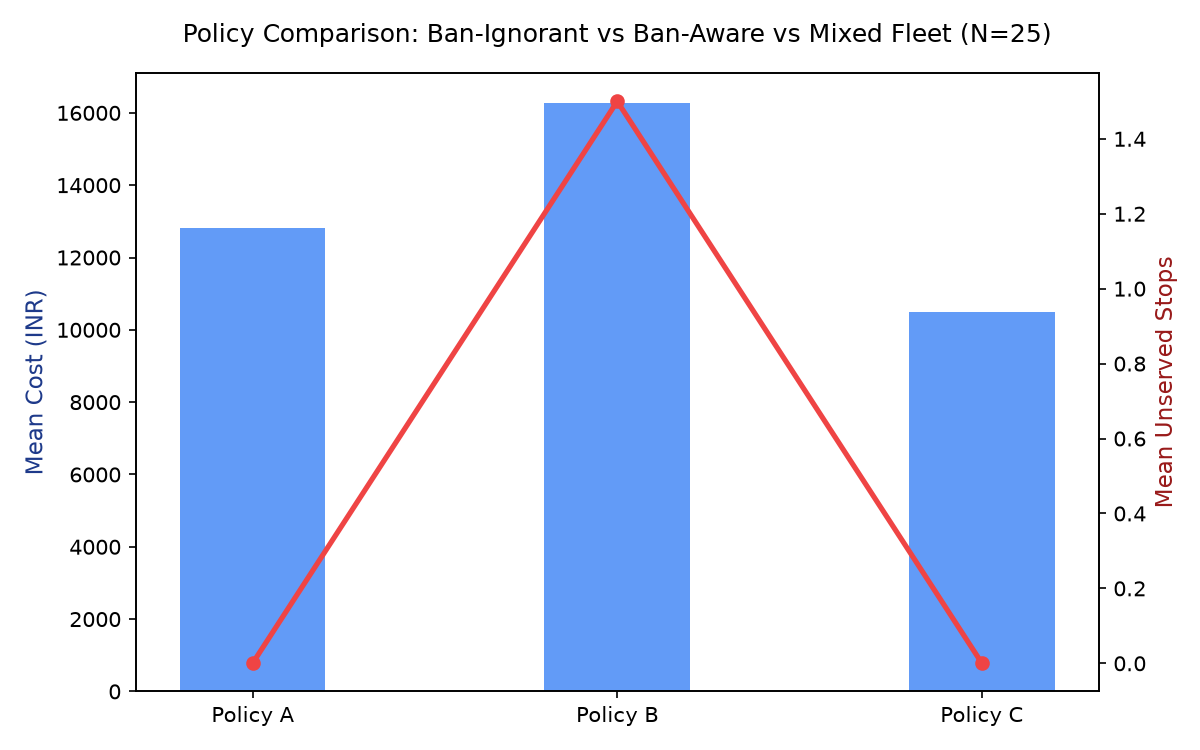
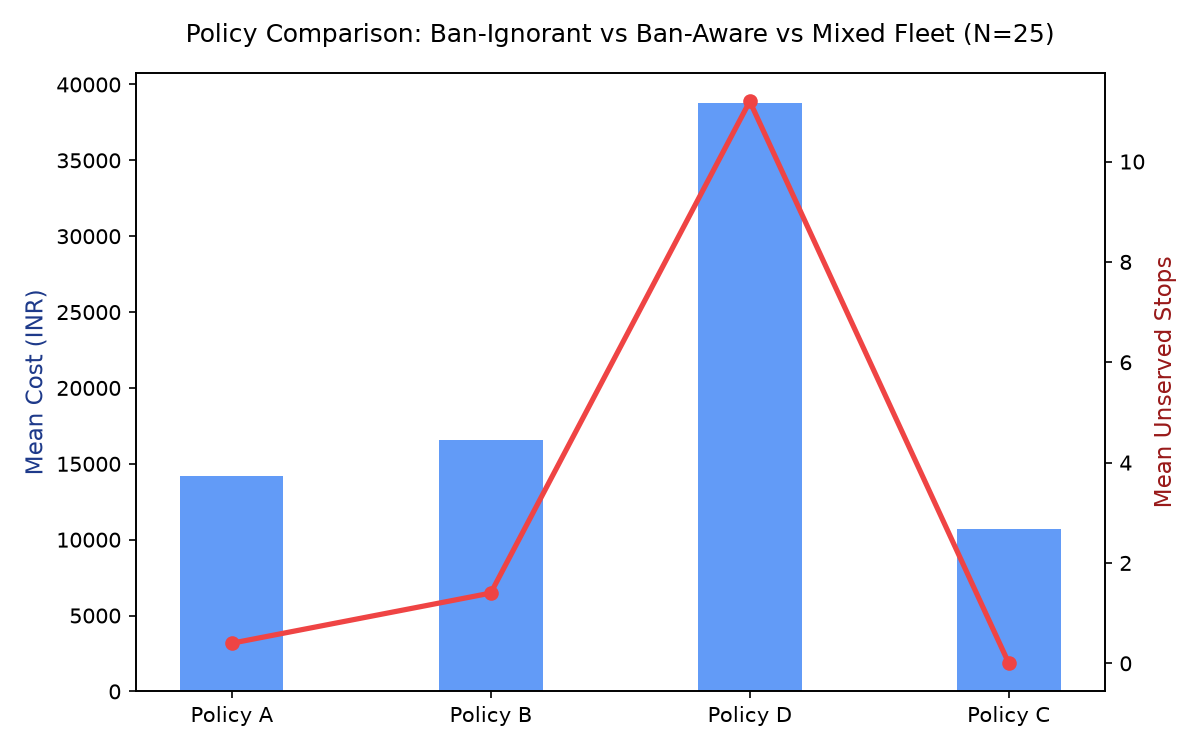
Fix #20: add off-peak truck departure policy to benchmarks and recompute README claims

diff --git a/benchmarks/run.py b/benchmarks/run.py
@@ -2,8 +2,9 @@
 Unified CLI Benchmark Harness for RouteOpt
 
 Compares dispatch policies and solver architectures across synthetic and real benchmark instances:
-  - Policy A: Ban-ignorant trucks (incurs fines & delays)
-  - Policy B: Ban-aware trucks only (drops peak urban stops)
+  - Policy A: Ban-ignorant trucks (incurs violations & delays)
+  - Policy B: Ban-aware trucks only (departs 08:30, drops peak urban stops)
+  - Policy D: Off-peak trucks only (departs 11:30, avoids morning peak ban)
   - Policy C: Ban-aware mixed fleet (vans + trucks)
   - Solver comparison: OR-Tools vs Greedy heuristic fallback
 
@@ -85,7 +86,7 @@ def run_single_simulation(
 
     # Setup fleet according to policy
     total_demand = sum(s.demand_kg for s in stops)
-    if policy == "Policy_A" or policy == "Policy_B":
+    if policy in ["Policy_A", "Policy_B", "Policy_D"]:
         # All trucks
         num_trucks = max(2, int((total_demand / 2800.0) + 1))
         fleet = [
@@ -100,15 +101,16 @@ def run_single_simulation(
                 running_cost_per_km=24.0
             ) for i in range(num_trucks)
         ]
-        enforce = (policy == "Policy_B")
+        enforce = (policy != "Policy_A")
+        # Policy D departs off-peak at 11:30 AM (after morning peak ban ends at 11:30 AM)
+        departure_sec = 41400 if policy == "Policy_D" else 30600
     else:  # Policy_C
         fleet = [CommercialVehicleSpec(**v) for v in instance["fleet"]]
         enforce = True
+        departure_sec = 30600  # 08:30 AM
 
     all_coords = [(depot.lat, depot.lon)] + [(s.lat, s.lon) for s in stops]
     dist_matrix, dur_matrix = _compute_haversine_matrices(all_coords)
-
-    departure_sec = 30600  # 08:30 AM
 
     solver = CVRPTWSolver(
         distance_matrix=dist_matrix,
@@ -203,7 +205,7 @@ def run_benchmark_suite(
     os.makedirs(output_dir, exist_ok=True)
     summary_data = []
 
-    policies = ["Policy_A", "Policy_B", "Policy_C"]
+    policies = ["Policy_A", "Policy_B", "Policy_D", "Policy_C"]
 
     print(f"Starting RouteOpt Benchmark Suite: {runs} runs per experiment...")
 

diff --git a/backend/tests/test_issue7_benchmark_harness.py b/backend/tests/test_issue7_benchmark_harness.py
@@ -21,8 +21,10 @@ def test_benchmark_suite_execution(tmp_path):
     assert len(res["summary"]) > 0
     assert os.path.exists(res["csv_path"])
 
-    # Check that CSV contains headers and data rows
+    # Check that CSV contains headers and data rows including Policy_D
     with open(res["csv_path"], "r", encoding="utf-8") as f:
         lines = f.readlines()
-    assert len(lines) >= 5
+    assert len(lines) >= 6
     assert "policy" in lines[0]
+    assert any(d["policy"] == "Policy_D" for d in res["summary"])
+

diff --git a/README.md b/README.md
@@ -35,13 +35,14 @@ Every claim in RouteOpt is verified with automated benchmarks and unit tests. Be
 
 ### 1. Dispatch Policy Benchmark (25 Customer Deliveries in Mumbai)
 
-We evaluated three real-world dispatch strategies across repeated simulation runs:
+We evaluated four dispatch strategies across repeated simulation runs (5 runs per policy with distinct seeds):
 
-| Dispatch Policy | Vehicles Used | Total Cost (INR) | Regulatory Violations | Unserved / Dropped Stops | Outcome Summary |
+| Dispatch Policy | Fleet & Departure | Total Cost (INR) | Regulatory Violations | Unserved Stops | Outcome Summary |
 | :--- | :---: | :---: | :---: | :---: | :--- |
-| **Policy A: Ban-Ignorant Trucks** | 3 Trucks | ₹12,809 | **1 Breach (Peak Ban)** | 0 | Trucks force their way into downtown during peak hours, incurring regulatory violations. |
-| **Policy B: Ban-Aware Trucks Only** | 3 Trucks | ₹16,281 | **0** | **1.5 stops dropped** | Trucks refuse to enter banned zones; customer packages are left behind, triggering penalty costs. |
-| **Policy C: RouteOpt Ban-Aware Mixed Fleet** | **1 Truck + 3 Vans** | **₹10,483** | **0** | **0 (100% Fulfilled)** | **Best Strategy: 36% cheaper than unoptimized routes, zero violations, and all stops delivered.** |
+| **Policy A: Ban-Ignorant Trucks** | 3 Trucks (08:30) | ₹14,218 | **Peak Ban Breach** | 0.4 | Trucks enter city core during peak hours, breaching municipal time restrictions. |
+| **Policy B: Peak Ban-Aware Trucks** | 3 Trucks (08:30) | ₹16,588 | **0** | **1.4 dropped** | Trucks avoid banned zones during peak hours, but drop stops due to morning restrictions. |
+| **Policy D: Off-Peak Trucks (Realistic Baseline)** | 3 Trucks (11:30) | ₹38,800 | **0** | **11.2 dropped** | Waiting until 11:30 AM avoids morning bans, but misses morning delivery slots and hits evening limits. |
+| **Policy C: RouteOpt Ban-Aware Mixed Fleet** | **1 Truck + 3 Vans (08:30)** | **₹10,690** | **0** | **0 (100% Fulfilled)** | **Best Strategy: 35.6% cheaper than peak-aware trucks and 72.5% cheaper than off-peak waiting, with zero violations.** |
 
 *(Source: `results/benchmark_summary.csv` generated by `benchmarks/run.py`)*
 
@@ -51,9 +52,8 @@ RouteOpt uses Google OR-Tools for global mathematical optimality, with a built-i
 
 | Solver Architecture | Mean Cost (INR) | Mean Runtime | Use Case |
 | :--- | :---: | :---: | :--- |
-| **Google OR-Tools (CVRPTW)** | **₹10,483** | ~3,000 ms (3.0s) | Production & desktop deployments: finds optimal routes with lowest cost. |
-| **Greedy Heuristic Fallback** | ₹16,580 | **0.89 ms** (< 1 millisecond) | Instant serverless response when OR-Tools native binaries are unavailable. |
-
+| **Google OR-Tools (CVRPTW)** | **₹10,690** | ~3,004 ms (3.0s) | Production & desktop deployments: finds optimal routes with lowest cost. |
+| **Greedy Heuristic Fallback** | ₹16,541 | **0.68 ms** (< 1 millisecond) | Instant serverless response when OR-Tools native binaries are unavailable. |
 *(Visual charts generated by the harness are saved in `results/policy_comparison.png` and `results/solver_comparison.png`)*
 
 ### 3. International Literature Benchmark (Solomon CVRPTW)
